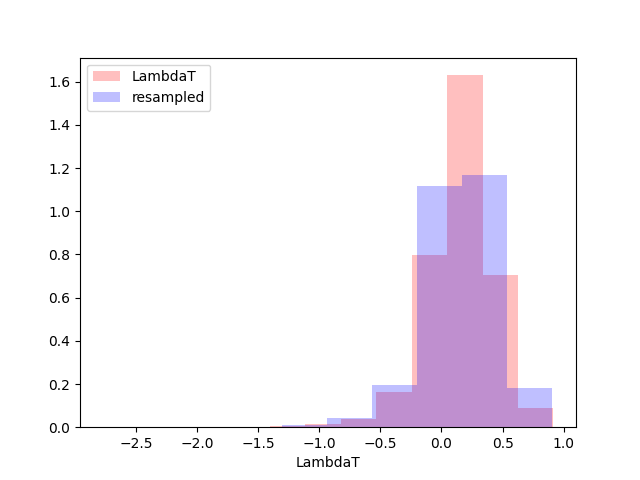
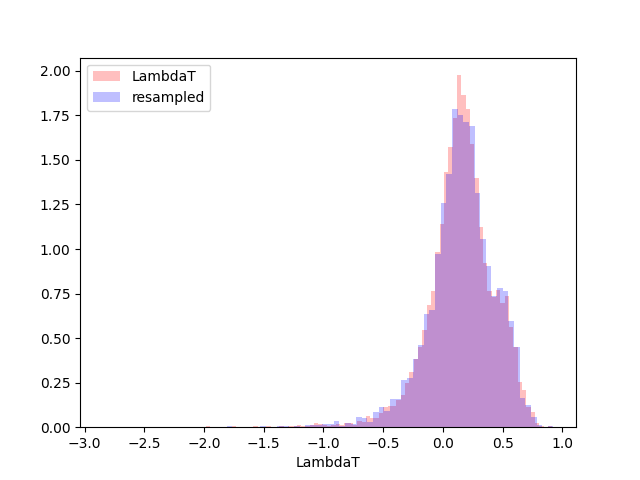
Also did the 2D kde lambda sanity check with more bins for the sake of it.

diff --git a/year3/lastStretch/lambdaReflectionStudy/reflectionTests.py b/year3/lastStretch/lambdaReflectionStudy/reflectionTests.py
@@ -120,8 +120,8 @@ def twoD_kdeTest():
     resampledLambdaT = new_margPostData[:,0]
 
     plt.clf()
-    plt.hist(np.log10(LambdaT),density=True,color='red',alpha=0.25,label="LambdaT")
-    plt.hist(np.log10(resampledLambdaT),density=True,color='blue',alpha=0.25,label="resampled")
+    plt.hist(np.log10(LambdaT),density=True,color='red',bins=80,alpha=0.25,label="LambdaT")
+    plt.hist(np.log10(resampledLambdaT),density=True,color='blue',bins=80,alpha=0.25,label="resampled")
     plt.legend()
     plt.xlabel("LambdaT")
     plt.savefig("GW170817_LambdaT_test.png")
